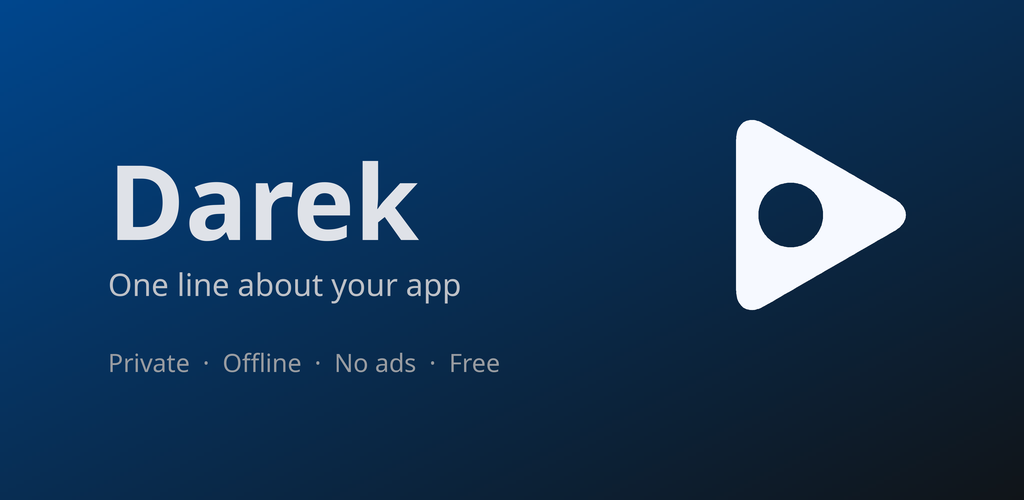
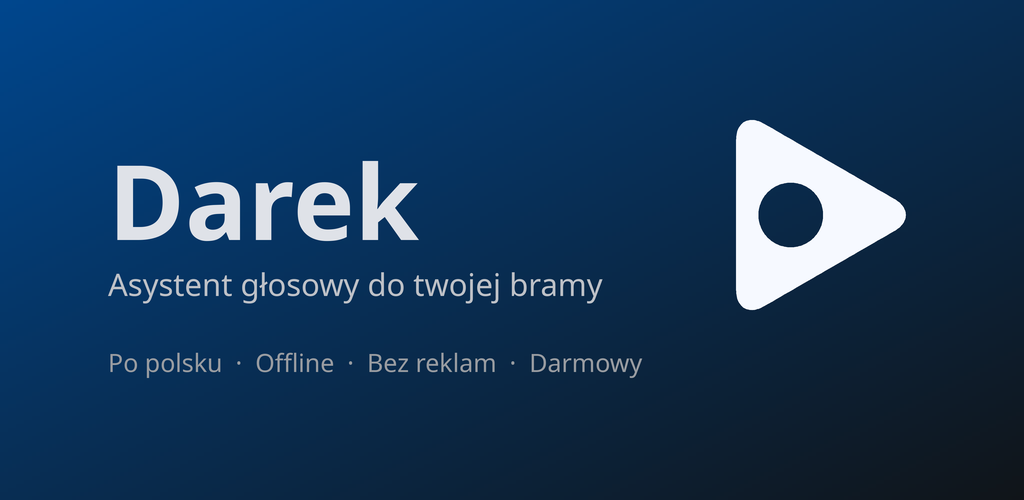
docs: write Darek's store listing and capture its first screenshots
Polish (default) and English copy, a Polish feature graphic with an English variant, and Home and Settings screenshots of the current build in both languages. pad-screenshot.py takes the phone's status bar height, since MIUI 12.5 ignores SystemUI demo mode.

Changed region(s): [[0.0938, 0.54, 0.5938, 0.6], [0.125, 0.69, 0.625, 0.75]]

diff --git a/art/pad-screenshot.py b/art/pad-screenshot.py
@@ -62,12 +62,19 @@ def main():
         action="store_true",
         help=f"drop the top {STATUS_BAR_PX}px (status bar and cutout) before padding",
     )
+    parser.add_argument(
+        "--status-bar-px",
+        type=int,
+        default=STATUS_BAR_PX,
+        help="the phone's own portrait statusBars inset, for --crop-status-bar on another phone; "
+        "the test Redmi Note 8 Pro reads 76 in `dumpsys window`",
+    )
     args = parser.parse_args()
 
     src, dst = args.src, args.dst
     img = Image.open(src).convert("RGB")
     if args.crop_status_bar:
-        img = img.crop((0, STATUS_BAR_PX, img.size[0], img.size[1]))
+        img = img.crop((0, args.status_bar_px, img.size[0], img.size[1]))
     w, h = img.size
 
     target_w = max(w, round(h * RATIO_W / RATIO_H))
@@ -83,7 +90,7 @@ def main():
     canvas.save(dst, "PNG", optimize=True)
 
     ratio = target_w / target_h
-    cropped = f" (status bar cropped, -{STATUS_BAR_PX}px)" if args.crop_status_bar else ""
+    cropped = f" (status bar cropped, -{args.status_bar_px}px)" if args.crop_status_bar else ""
     print(f"{dst}  {w}x{h} -> {target_w}x{target_h}  ({ratio:.4f}, 9:16 = {RATIO_W / RATIO_H:.4f}){cropped}")
 
 

diff --git a/art/make-feature-graphic.py b/art/make-feature-graphic.py
@@ -43,7 +43,8 @@ ART = Path(__file__).parent
 # Edit them; everything else is layout. Translate from the English, per docs/translator-brief.md.
 APP_NAME = "Darek"
 COPY = {
-    None: ("One line about your app", "Private  ·  Offline  ·  No ads  ·  Free"),
+    None: ("Asystent głosowy do twojej bramy", "Po polsku  ·  Offline  ·  Bez reklam  ·  Darmowy"),
+    "en": ("A Polish voice assistant for your gate", "Offline  ·  No internet  ·  No ads  ·  Free"),
 }
 BACKGROUND = ART / "feature-background.png"
 W, H = 1024, 500

diff --git a/docs/store-listing.md b/docs/store-listing.md
@@ -35,7 +35,7 @@ Play counts characters, not words, and rejects at the limit rather than truncati
 in the heading and update it when you edit: it is the only warning you get before the Console
 refuses a paste.
 
-### App name — 0/30
+### App name — 5/30
 
 **The app name is not translated, in any locale.** `app_name` is `translatable="false"` for the same
 reason, so every listing carries the same name.
@@ -44,14 +44,15 @@ reason, so every listing carries the same name.
 Darek
 ```
 
-### Short description — 0/80
+### Short description — 76/80
 
 The line that appears under the name in search results, and the most-read text in the listing.
 
 ```
+Say "Darek, otwórz bramę" and he calls your gate opener. Offline, in Polish.
 ```
 
-### Full description — 0/4000
+### Full description — 2823/4000
 
 **No health or safety claims**, here or on any page the listing links to — Play's enforcement reads a
 linked page as part of the listing. Say what the app cannot do instead.
@@ -67,25 +68,104 @@ renders no markup. The block below is what `play-metadata.py` uploads, so the ou
 5. `PERMISSIONS` — one line each, in the user's words.
 6. A last line pointing at the source: `github.com/maksforge/darek`.
 
+The second paragraph is for the test builds that ship before Listening does. The release that adds
+Listening and the call deletes it, in both languages.
+
 ```
+Darek is a Polish voice assistant for your gate. Say "Darek, otwórz bramę" and he answers out loud and calls your gate's GSM opener, so you do not have to reach for your phone. Recognition, speech and the call all happen on your phone, with no internet at all.
+
+This test build has only the home screen and settings. Listening and the call arrive in the next test builds.
+
+HOW IT WORKS
+
+Darek knows a few fixed Commands: for a gate, a garage and a wicket. Give each one the phone number of its opener's SIM, and switch on the ones you use.
+
+You start Listening yourself, in the app, from its notification or from a Quick Settings tile. It never starts on its own, not even after the phone restarts, and while it is on, a notification says that Darek is listening.
+
+When he hears a Command, Darek says what he is about to do ("Otwieram bramę") and gives you about two seconds to cancel: say "Darek, stop" or "anuluj", or tap Cancel in the notification. Then he calls the number you entered. An opener that knows your number opens the gate.
+
+He listens for the whole Command, not just his name. "Darek" said to a friend does nothing, and neither does "Marek, otwórz bramę".
+
+FREE, AND NOTHING LEAVES YOUR PHONE
+
+No ads. No account. No server. No subscription. Darek does not request the internet permission, so nothing he hears can leave your phone. Speech is recognised on the phone by an offline recogniser that comes with the app, and the sound is processed as it is heard: never recorded, never stored, never sent. Darek keeps only his settings: the numbers you entered, which Commands are on, your theme and your language. An optional tip through Google Play unlocks nothing.
+
+WHAT IT CANNOT DO
+
+Darek calls your gate opener; he does not control the gate. Whether it opens is up to the opener, which has to accept calls from your number. The call goes through your own SIM and mobile operator like any call you make, so it needs signal.
+
+He understands only his fixed Polish Commands, not free speech, and you cannot add phrases of your own. In a noisy place he can miss a Command; say it again.
+
+He answers through your phone's text-to-speech engine, which needs a Polish voice that works offline. Without one, a Command still places its call, just without a spoken reply.
+
+Listening keeps the microphone on and uses battery while it runs. Some phones, Xiaomi's among them, stop apps in the background; Darek opens the battery and autostart settings for you.
+
+PERMISSIONS
+
+- Microphone. Hears the Commands, only while Listening is on.
+- Phone. Calls the number you entered for a Command, after Darek's reply.
+- Notifications. Shows that Darek is listening, with a button to stop him.
+- Foreground service. Keeps Listening running while the app is closed.
+
+Source available, built in the open: github.com/maksforge/darek
 ```
 
 ## Polish (default listing language, pl-PL — ADR-0012)
 
-### App name — 0/30
+Informal `ty`, as in the app, and no gendered past tense for the user (translator brief §6.2). Darek
+himself is male: *usłyszy*, *odpowie*, *zadzwoni*.
+
+### App name — 5/30
 
 ```
 Darek
 ```
 
-### Short description — 0/80
+### Short description — 79/80
 
 ```
+Powiedz „Darek, otwórz bramę”, a on odpowie i zadzwoni do bramy. Bez internetu.
 ```
 
-### Full description — 0/4000
+### Full description — 2844/4000
 
 ```
+Darek to głosowy asystent do twojej bramy. Powiedz „Darek, otwórz bramę”, a on odpowie na głos i zadzwoni do sterownika GSM bramy, więc nie musisz sięgać po telefon. Rozpoznawanie mowy, odpowiedź i połączenie odbywają się w telefonie, zupełnie bez internetu.
+
+Ta wersja testowa ma tylko ekran główny i ustawienia. Słuchanie i dzwonienie pojawią się w kolejnych wersjach testowych.
+
+JAK TO DZIAŁA
+
+Darek zna kilka stałych komend: do bramy, garażu i furtki. Każdej przypisz numer karty SIM w jej sterowniku i włącz te, których używasz.
+
+Słuchanie włączasz w aplikacji, w jej powiadomieniu albo kafelkiem w szybkich ustawieniach. Nigdy nie włącza się samo, nawet po ponownym uruchomieniu telefonu, a gdy jest włączone, powiadomienie mówi, że Darek słucha.
+
+Gdy usłyszy komendę, Darek mówi, co zrobi („Otwieram bramę”), i daje ci około dwóch sekund na anulowanie: powiedz „Darek, stop” albo „anuluj” lub dotknij Anuluj w powiadomieniu. Potem dzwoni pod numer wpisany dla tej komendy. Sterownik, który zna twój numer, otwiera bramę.
+
+Darek słucha całej komendy, nie samego imienia. „Darek” powiedziane do kolegi nic nie robi, tak samo jak „Marek, otwórz bramę”.
+
+ZA DARMO I NIC NIE OPUSZCZA TELEFONU
+
+Bez reklam, bez konta, bez serwera, bez subskrypcji. Darek nie prosi o uprawnienie do internetu, więc nic, co usłyszy, nie może opuścić telefonu. Mowę rozpoznaje w telefonie dołączony do aplikacji moduł działający offline, a dźwięk jest przetwarzany na bieżąco: nigdy nie jest nagrywany, zapisywany ani wysyłany. Darek przechowuje tylko swoje ustawienia: wpisane numery, włączone komendy, motyw i język. Opcjonalny napiwek przez Google Play niczego nie odblokowuje.
+
+CZEGO NIE POTRAFI
+
+Darek dzwoni do sterownika bramy, ale nie steruje samą bramą. To, czy się otworzy, zależy od sterownika, który musi przyjmować połączenia z twojego numeru. Połączenie idzie przez twoją kartę SIM i twojego operatora, jak każde inne, więc wymaga zasięgu.
+
+Rozumie tylko swoje stałe polskie komendy, nie swobodną mowę, i nie da się dodać własnych zwrotów. W hałasie może nie usłyszeć komendy; wtedy ją powtórz.
+
+Odpowiada przez syntezator mowy w twoim telefonie, który potrzebuje do tego polskiego głosu działającego offline. Bez niego komenda i tak dzwoni, tylko bez odpowiedzi na głos.
+
+Słuchanie trzyma włączony mikrofon i zużywa baterię. Niektóre telefony, w tym Xiaomi, zamykają aplikacje działające w tle; Darek sam otworzy ci ustawienia baterii i autostartu.
+
+UPRAWNIENIA
+
+- Mikrofon. Darek słyszy przez niego komendy, tylko gdy słuchanie jest włączone.
+- Telefon. Darek dzwoni pod numer wpisany dla komendy, po swojej odpowiedzi.
+- Powiadomienia. Pokazują, że Darek słucha, z przyciskiem, który go zatrzymuje.
+- Usługa na pierwszym planie. Utrzymuje słuchanie, gdy aplikacja jest zamknięta.
+
+Kod źródłowy jest publicznie dostępny: github.com/maksforge/darek
 ```
 
 ## Release notes (Play's "What's new", 500 chars per locale)

diff --git a/docs/DOD.md b/docs/DOD.md
@@ -63,9 +63,13 @@ close. Whenever `APP_SCHEMA_VERSION` changes, all five hold before the release g
       receiving Gmail's *Send mail as* entry, confirmed. Send *Report a problem* from a non-Gmail
       account and check it lands outside Spam. One address everywhere — the listing's contact field
       and IARC's rating contact too; `SupportHandoff.kt` says why it lives on our own domain.
-- [ ] **Write the listing.** `docs/store-listing.md` — every heading in it is parsed by a script.
-- [ ] **Capture the screenshots** with `scripts/screenshots.py` from a release-shaped build, in every
+- [x] **Write the listing.** `docs/store-listing.md` — every heading in it is parsed by a script.
+      Done 2026-10-31, Polish and English, for Darek as he will ship, with one paragraph saying the
+      test build has only Home and Settings; the release that adds Listening deletes it.
+- [x] **Capture the screenshots** with `scripts/screenshots.py` from a release-shaped build, in every
       listing language, into `art/play-screenshots/`. Play wants at least two before the first review.
+      Done 2026-10-31 as **current-build placeholders**: Home and Settings, light, in pl and en, from
+      a local release build on the test phone. Re-shoot when Listening has a screen.
 - [ ] **Put the app on maksforge.com.** Its icon goes at `assets/icons/<repo>.webp` in
       maksforge/maksforge.github.io, which the app's own site loads, and the app goes on that home
       page. Replace `description` in `docs/_config.yml` too: it is the tagline under the app's name.
